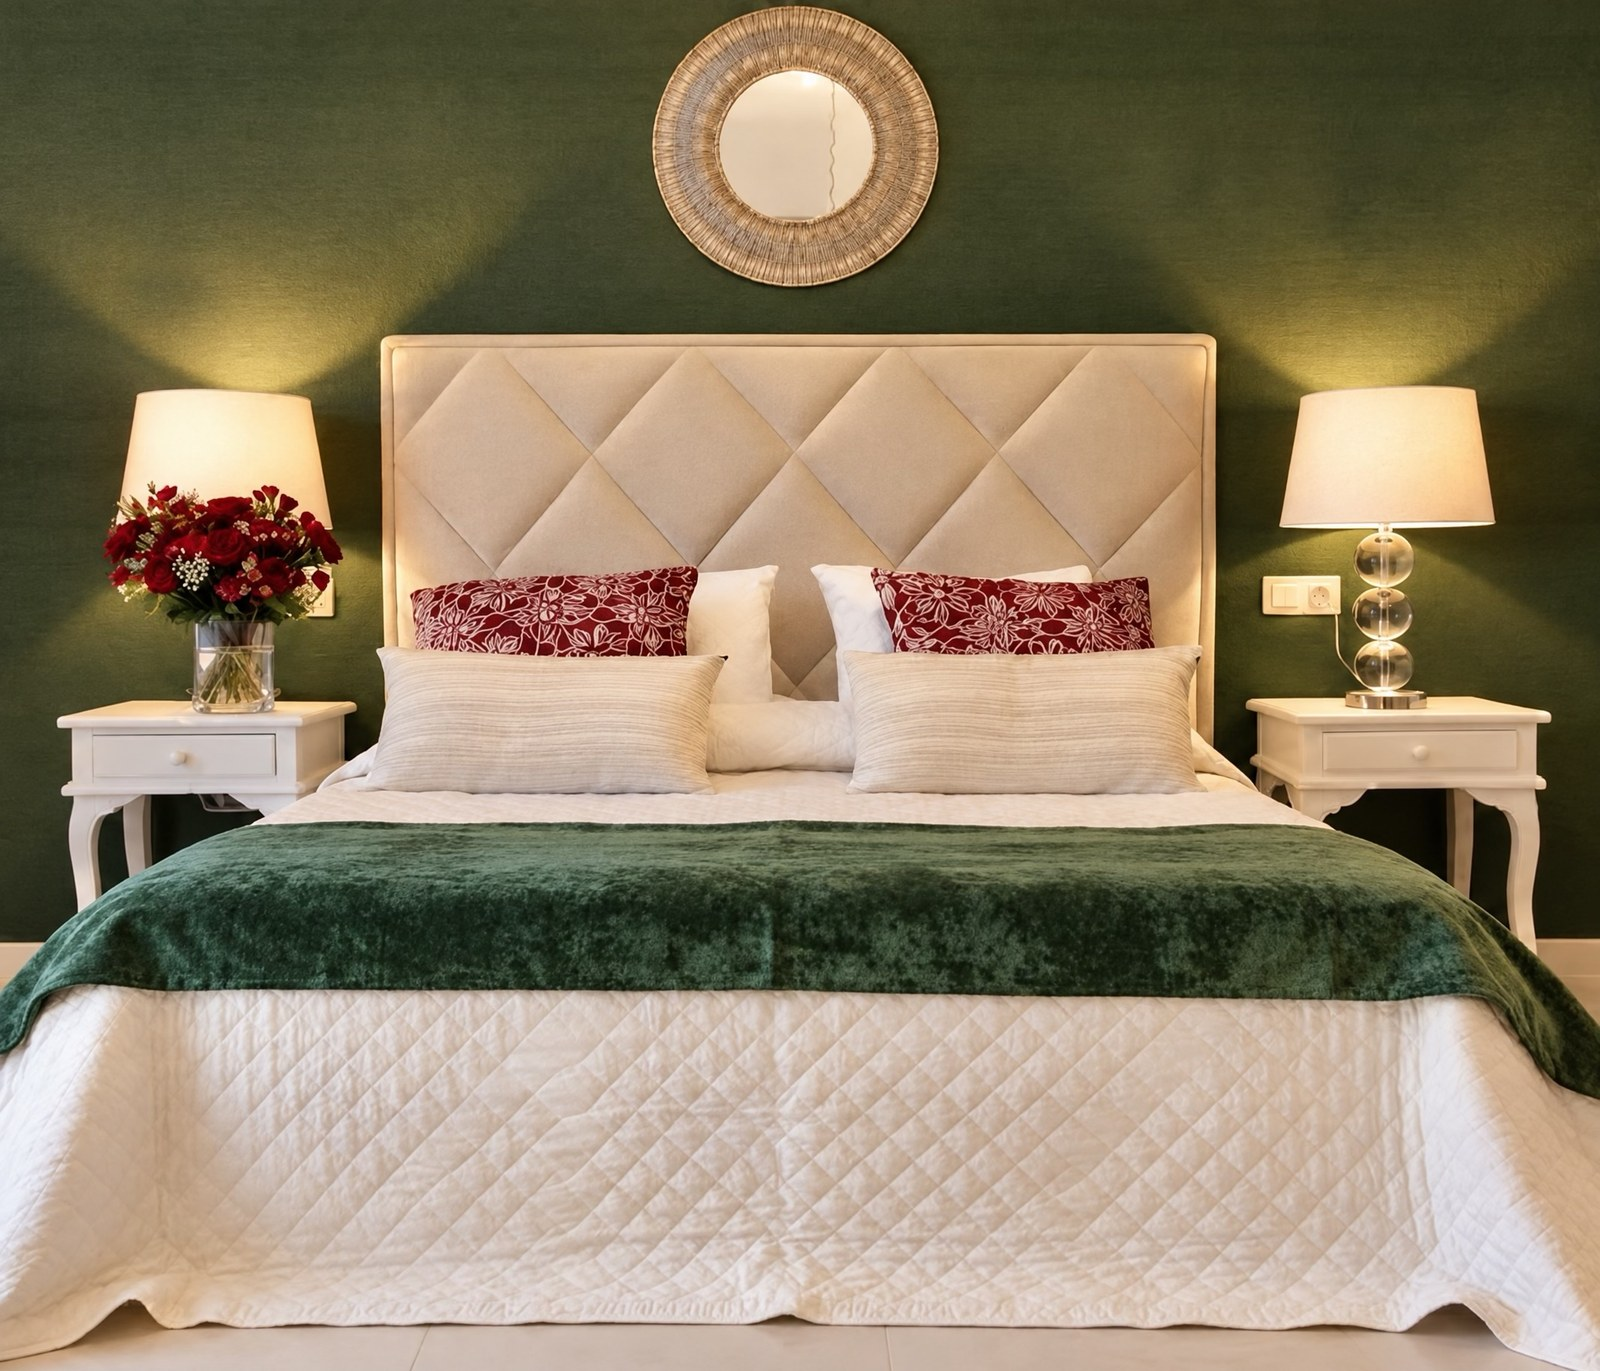
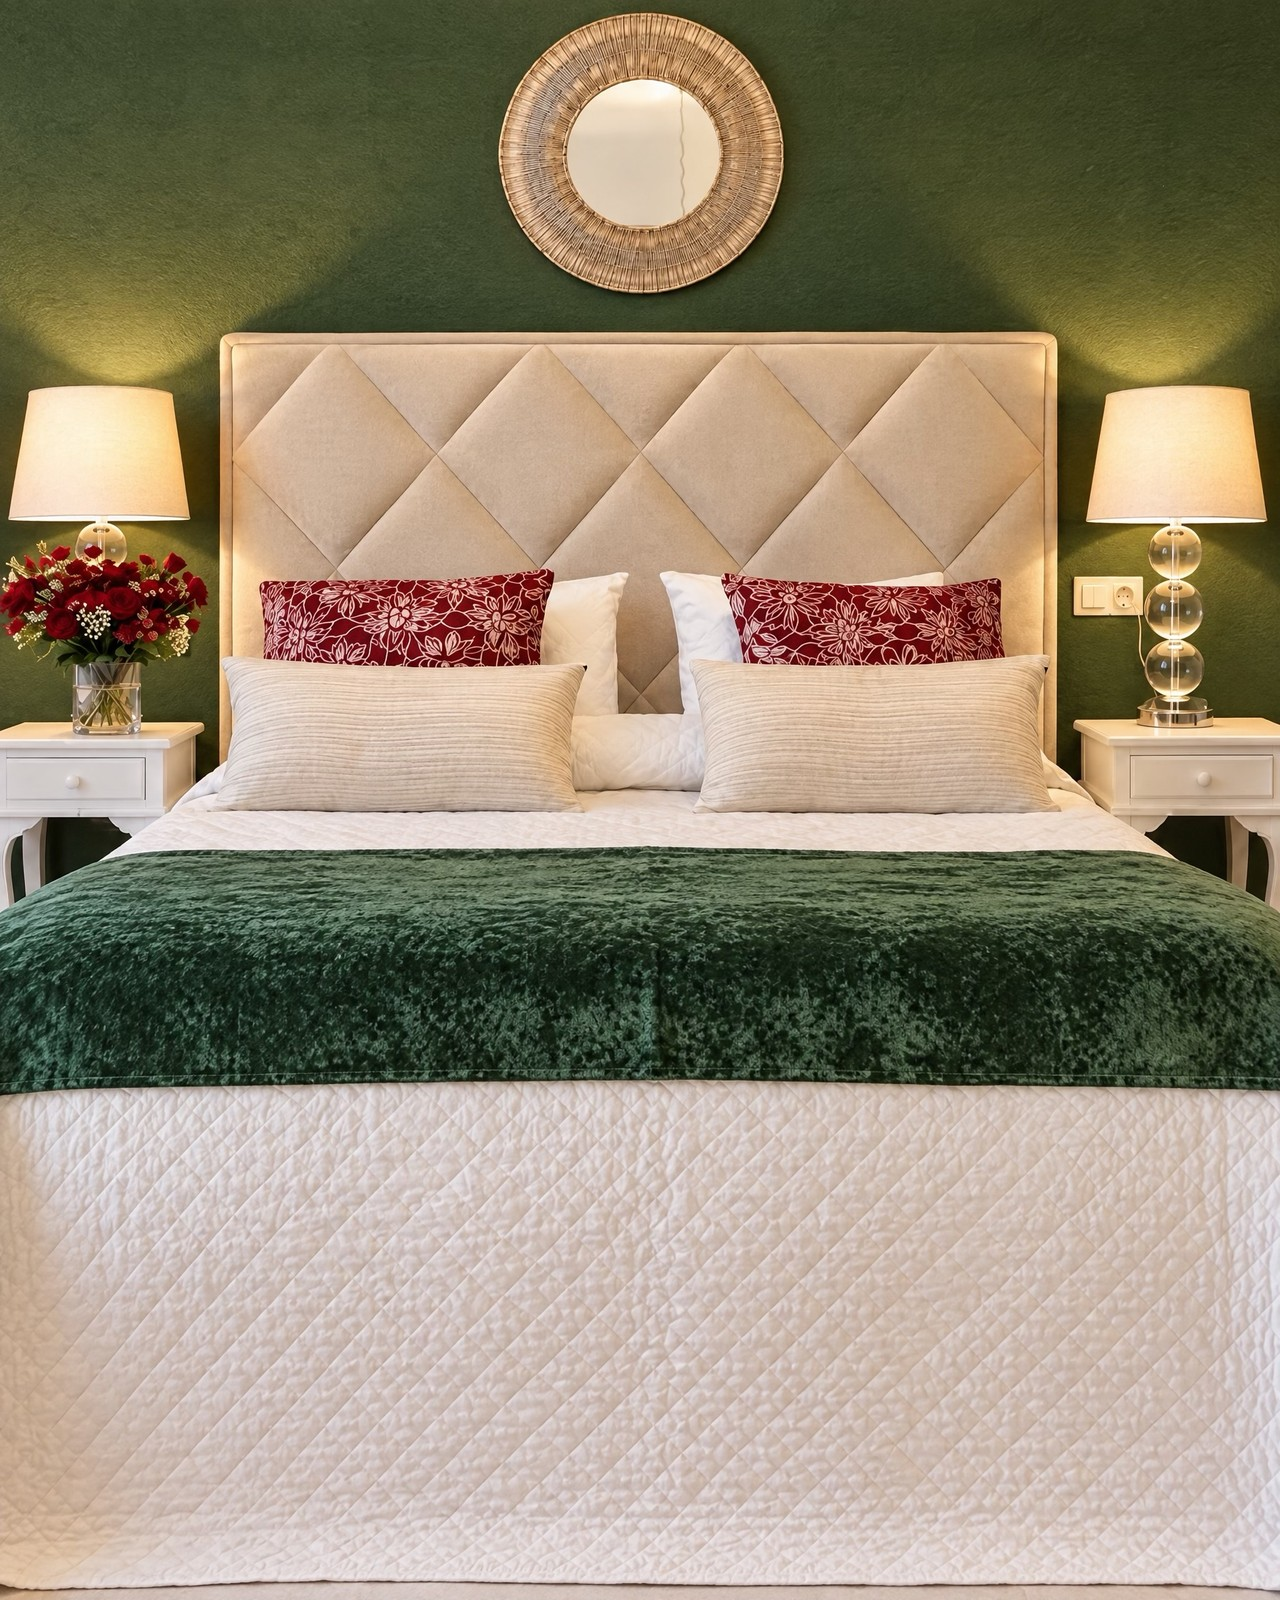
Home: unifica encuadre/ángulo/profundidad de las 3 fotos de portada con Higgsfield
El recorte anterior (commit bccb045) igualaba el nivel de zoom de Thalassa
pero el usuario pidió algo más completo: mismo ángulo de cámara y misma
profundidad en las tres, no solo el mismo zoom. Las tres fotos (Mar,
Thalassa, Salinas) se regeneraron con gpt_image_2_5, viendo las tres
fotos reales a la vez como referencia cruzada, con instrucción explícita
de mantener el contenido real de cada habitación (pared/mural, cojines,
lámparas, mesillas) y unificar solo el encuadre: vista centrada de
frente, misma altura de cámara, cabecero/mural ocupando casi todo el
ancho del encuadre, cama hasta el borde inferior sin suelo visible.

Revisadas visualmente por el usuario antes de aplicarlas (no puedo ver
las imágenes generadas por Higgsfield en este entorno, el CDN donde
las deja está bloqueado por política de red).

Claude-Session: https://claude.ai/code/session_01Ngoi34F6GYbHUuk8i799df

diff --git a/docs/components/sections-1.jsx b/docs/components/sections-1.jsx
@@ -268,13 +268,13 @@ const Hero = ({ lang, onScrollDown }) => {
 // --- APARTAMENTOS (scroll horizontal) ---
 const APARTMENTS = [
   { id: 'vm', num: '01', name: 'Hestía Mar',      slug: 'mar',      license: 'VFT/AL/01580', concept: 'apt_01_concept',
-    img: 'assets/apt-vm-gallery-26.jpg', imgW: 1600, imgH: 1371, rating: '9.8',
+    img: 'assets/apt-vm-gallery-26.jpg', imgW: 1280, imgH: 1600, rating: '9.8',
     meta: ['6 + bebé', '2 hab.', 'Piscina', 'Mascotas · petición'] },
   { id: 'vt', num: '02', name: 'Hestía Thalassa', slug: 'thalassa', license: 'VFT/AL/05535', concept: 'apt_02_concept',
-    img: 'assets/apt-vt-gallery-33.jpg', imgW: 871, imgH: 1089, rating: '10',
+    img: 'assets/apt-vt-gallery-33.jpg', imgW: 1280, imgH: 1600, rating: '10',
     meta: ['6 + bebé', '2 hab.', 'Ático', 'SPA'] },
   { id: 'vs', num: '03', name: 'Hestía Salinas',  slug: 'salinas',  license: 'VFT/AL/07056', concept: 'apt_03_concept',
-    img: 'assets/apt-vs-gallery-33.jpg', imgW: 1600, imgH: 1422, rating: '9.9',
+    img: 'assets/apt-vs-gallery-33.jpg', imgW: 1280, imgH: 1600, rating: '9.9',
     meta: ['6 + bebé', '2 hab.', '3 piscinas', 'Salinas'] },
 ];
 

diff --git a/docs/components/sections-1.js b/docs/components/sections-1.js
@@ -343,8 +343,8 @@ const APARTMENTS = [{
   license: 'VFT/AL/01580',
   concept: 'apt_01_concept',
   img: 'assets/apt-vm-gallery-26.jpg',
-  imgW: 1600,
-  imgH: 1371,
+  imgW: 1280,
+  imgH: 1600,
   rating: '9.8',
   meta: ['6 + bebé', '2 hab.', 'Piscina', 'Mascotas · petición']
 }, {
@@ -355,8 +355,8 @@ const APARTMENTS = [{
   license: 'VFT/AL/05535',
   concept: 'apt_02_concept',
   img: 'assets/apt-vt-gallery-33.jpg',
-  imgW: 871,
-  imgH: 1089,
+  imgW: 1280,
+  imgH: 1600,
   rating: '10',
   meta: ['6 + bebé', '2 hab.', 'Ático', 'SPA']
 }, {
@@ -367,8 +367,8 @@ const APARTMENTS = [{
   license: 'VFT/AL/07056',
   concept: 'apt_03_concept',
   img: 'assets/apt-vs-gallery-33.jpg',
-  imgW: 1600,
-  imgH: 1422,
+  imgW: 1280,
+  imgH: 1600,
   rating: '9.9',
   meta: ['6 + bebé', '2 hab.', '3 piscinas', 'Salinas']
 }];

diff --git a/docs/contacto.html b/docs/contacto.html
@@ -118,7 +118,7 @@
     } catch (e) { console.warn('prices.json fetch failed; using fallback', e); }
 
     for (const file of COMPONENT_FILES) {
-      const res = await fetch(file + '?cv=38bec4c90e');
+      const res = await fetch(file + '?cv=20af1962f8');
       if (!res.ok) throw new Error(`Failed to load ${file}: ${res.status}`);
       const code = await res.text();
       // eslint-disable-next-line no-eval

diff --git a/docs/index.html b/docs/index.html
@@ -275,7 +275,7 @@
     } catch (e) { console.warn('prices.json fetch failed; using fallback', e); }
 
     for (const file of COMPONENT_FILES) {
-      const res = await fetch(file + '?cv=38bec4c90e');
+      const res = await fetch(file + '?cv=20af1962f8');
       if (!res.ok) throw new Error(`Failed to load ${file}: ${res.status}`);
       const code = await res.text();
       // eslint-disable-next-line no-eval

diff --git a/docs/nosotros.html b/docs/nosotros.html
@@ -212,7 +212,7 @@
     } catch (e) { console.warn('prices.json fetch failed; using fallback', e); }
 
     for (const file of COMPONENT_FILES) {
-      const res = await fetch(file + '?cv=38bec4c90e');
+      const res = await fetch(file + '?cv=20af1962f8');
       if (!res.ok) throw new Error(`Failed to load ${file}: ${res.status}`);
       const code = await res.text();
       // eslint-disable-next-line no-eval

diff --git a/docs/noticias.html b/docs/noticias.html
@@ -131,7 +131,7 @@
     } catch (e) { console.warn('prices.json fetch failed; using fallback', e); }
 
     for (const file of COMPONENT_FILES) {
-      const res = await fetch(file + '?cv=38bec4c90e');
+      const res = await fetch(file + '?cv=20af1962f8');
       if (!res.ok) throw new Error(`Failed to load ${file}: ${res.status}`);
       const code = await res.text();
       // eslint-disable-next-line no-eval

diff --git a/docs/about.html b/docs/about.html
@@ -98,7 +98,7 @@
     } catch (e) { console.warn('prices.json fetch failed; using fallback', e); }
 
     for (const file of COMPONENT_FILES) {
-      const res = await fetch(file + '?cv=38bec4c90e');
+      const res = await fetch(file + '?cv=20af1962f8');
       if (!res.ok) throw new Error(`Failed to load ${file}: ${res.status}`);
       const code = await res.text();
       // eslint-disable-next-line no-eval

diff --git a/docs/contact.html b/docs/contact.html
@@ -89,7 +89,7 @@
     } catch (e) { console.warn('prices.json fetch failed; using fallback', e); }
 
     for (const file of COMPONENT_FILES) {
-      const res = await fetch(file + '?cv=38bec4c90e');
+      const res = await fetch(file + '?cv=20af1962f8');
       if (!res.ok) throw new Error(`Failed to load ${file}: ${res.status}`);
       const code = await res.text();
       // eslint-disable-next-line no-eval

diff --git a/docs/cookies.html b/docs/cookies.html
@@ -84,7 +84,7 @@
     } catch (e) { console.warn('prices.json fetch failed; using fallback', e); }
 
     for (const file of COMPONENT_FILES) {
-      const res = await fetch(file + '?cv=38bec4c90e');
+      const res = await fetch(file + '?cv=20af1962f8');
       if (!res.ok) throw new Error(`Failed to load ${file}: ${res.status}`);
       const code = await res.text();
       // eslint-disable-next-line no-eval

diff --git a/docs/empresas.html b/docs/empresas.html
@@ -92,7 +92,7 @@
     } catch (e) { console.warn('prices.json fetch failed; using fallback', e); }
 
     for (const file of COMPONENT_FILES) {
-      const res = await fetch(file + '?cv=38bec4c90e');
+      const res = await fetch(file + '?cv=20af1962f8');
       if (!res.ok) throw new Error(`Failed to load ${file}: ${res.status}`);
       const code = await res.text();
       // eslint-disable-next-line no-eval

diff --git a/docs/escribir-opinion.html b/docs/escribir-opinion.html
@@ -83,7 +83,7 @@
     } catch (e) { console.warn('prices.json fetch failed; using fallback', e); }
 
     for (const file of COMPONENT_FILES) {
-      const res = await fetch(file + '?cv=38bec4c90e');
+      const res = await fetch(file + '?cv=20af1962f8');
       if (!res.ok) throw new Error(`Failed to load ${file}: ${res.status}`);
       const code = await res.text();
       // eslint-disable-next-line no-eval

diff --git a/docs/letrero-bienvenida.html b/docs/letrero-bienvenida.html
@@ -60,7 +60,7 @@
     } catch (e) { console.warn('prices.json fetch failed; using fallback', e); }
 
     for (const file of COMPONENT_FILES) {
-      const res = await fetch(file + '?cv=38bec4c90e');
+      const res = await fetch(file + '?cv=20af1962f8');
       if (!res.ok) throw new Error(`Failed to load ${file}: ${res.status}`);
       const code = await res.text();
       // eslint-disable-next-line no-eval
